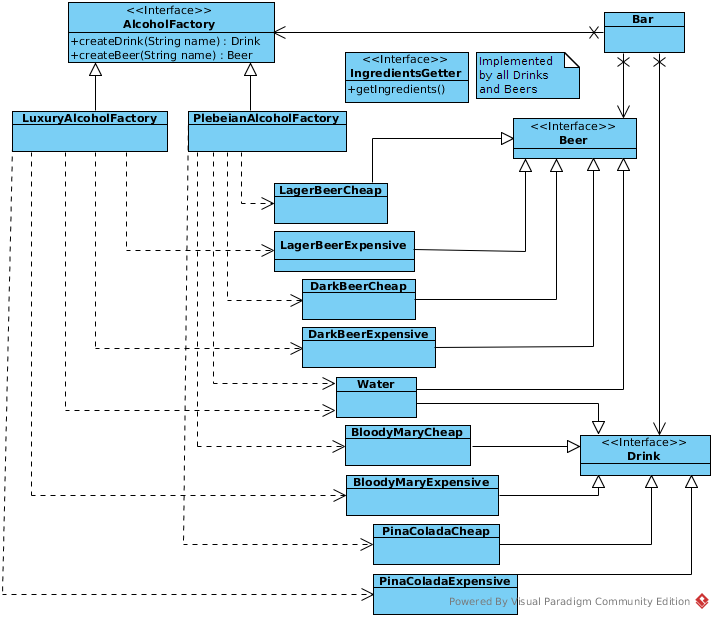
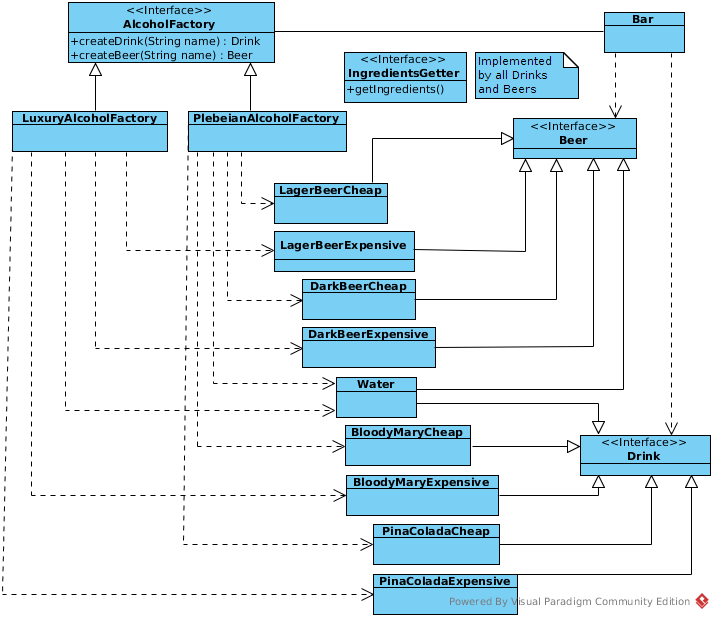
diagrams improved

diff --git a/doc/doc.tex b/doc/doc.tex
@@ -171,7 +171,7 @@ Implementacja wzorców pozwala barmanom na~tworzenie wielu różnych napojów al
 Każdy bar (implementowany jako \textit{singleton bean}) posiada fabrykę konkretną (singleton) zawierającą metody wytwórcze służące do~tworzenia konkretnych napojów. Typy klas tworzonych napojów są~parametryzowane przez~argumenty wejściowe metod wytwórczych. 
 
 \begin{center}
- \includegraphics[width=16cm]{factory}
+ \includegraphics[width=14cm]{factory}
 \end{center}
 
 Dzięki takiemu podejściu barman odseparowany został od~klas konkretnych napojów - nie~zna składu tych napojów, do~realizacji zamówień klientów korzysta z~interfejsu abstrakcyjnego baru i~abstrakcyjnych produktów. 
